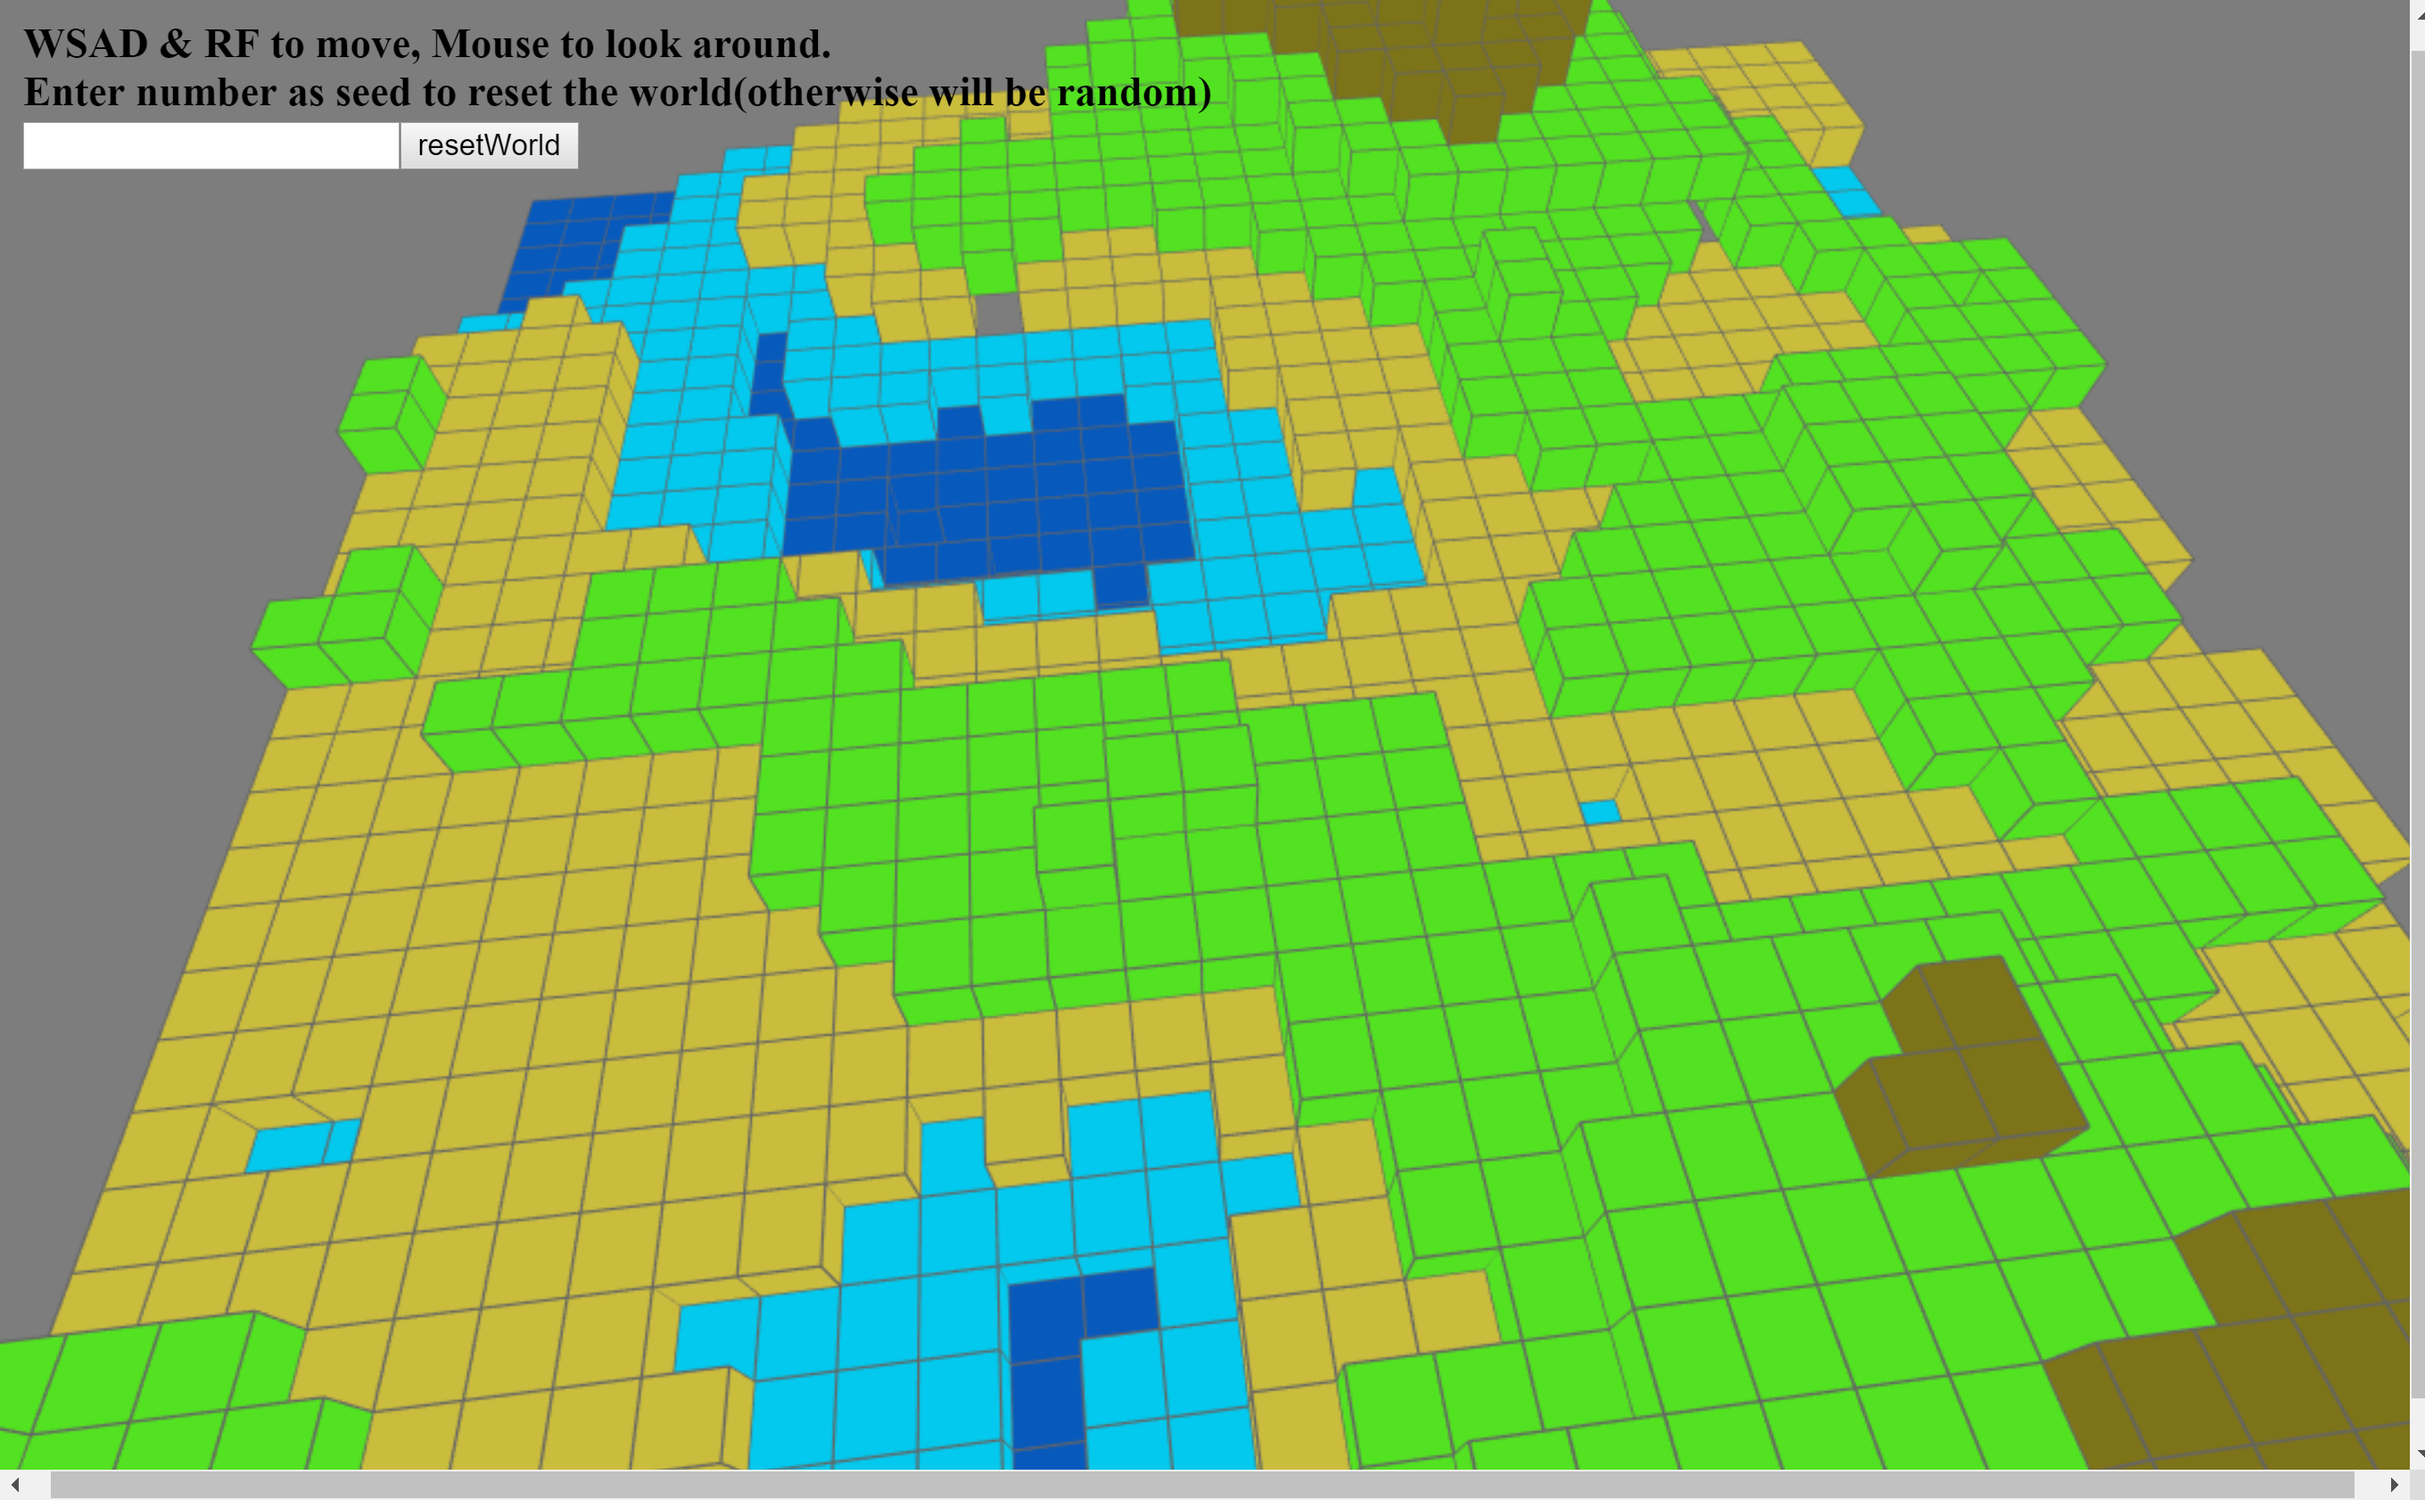
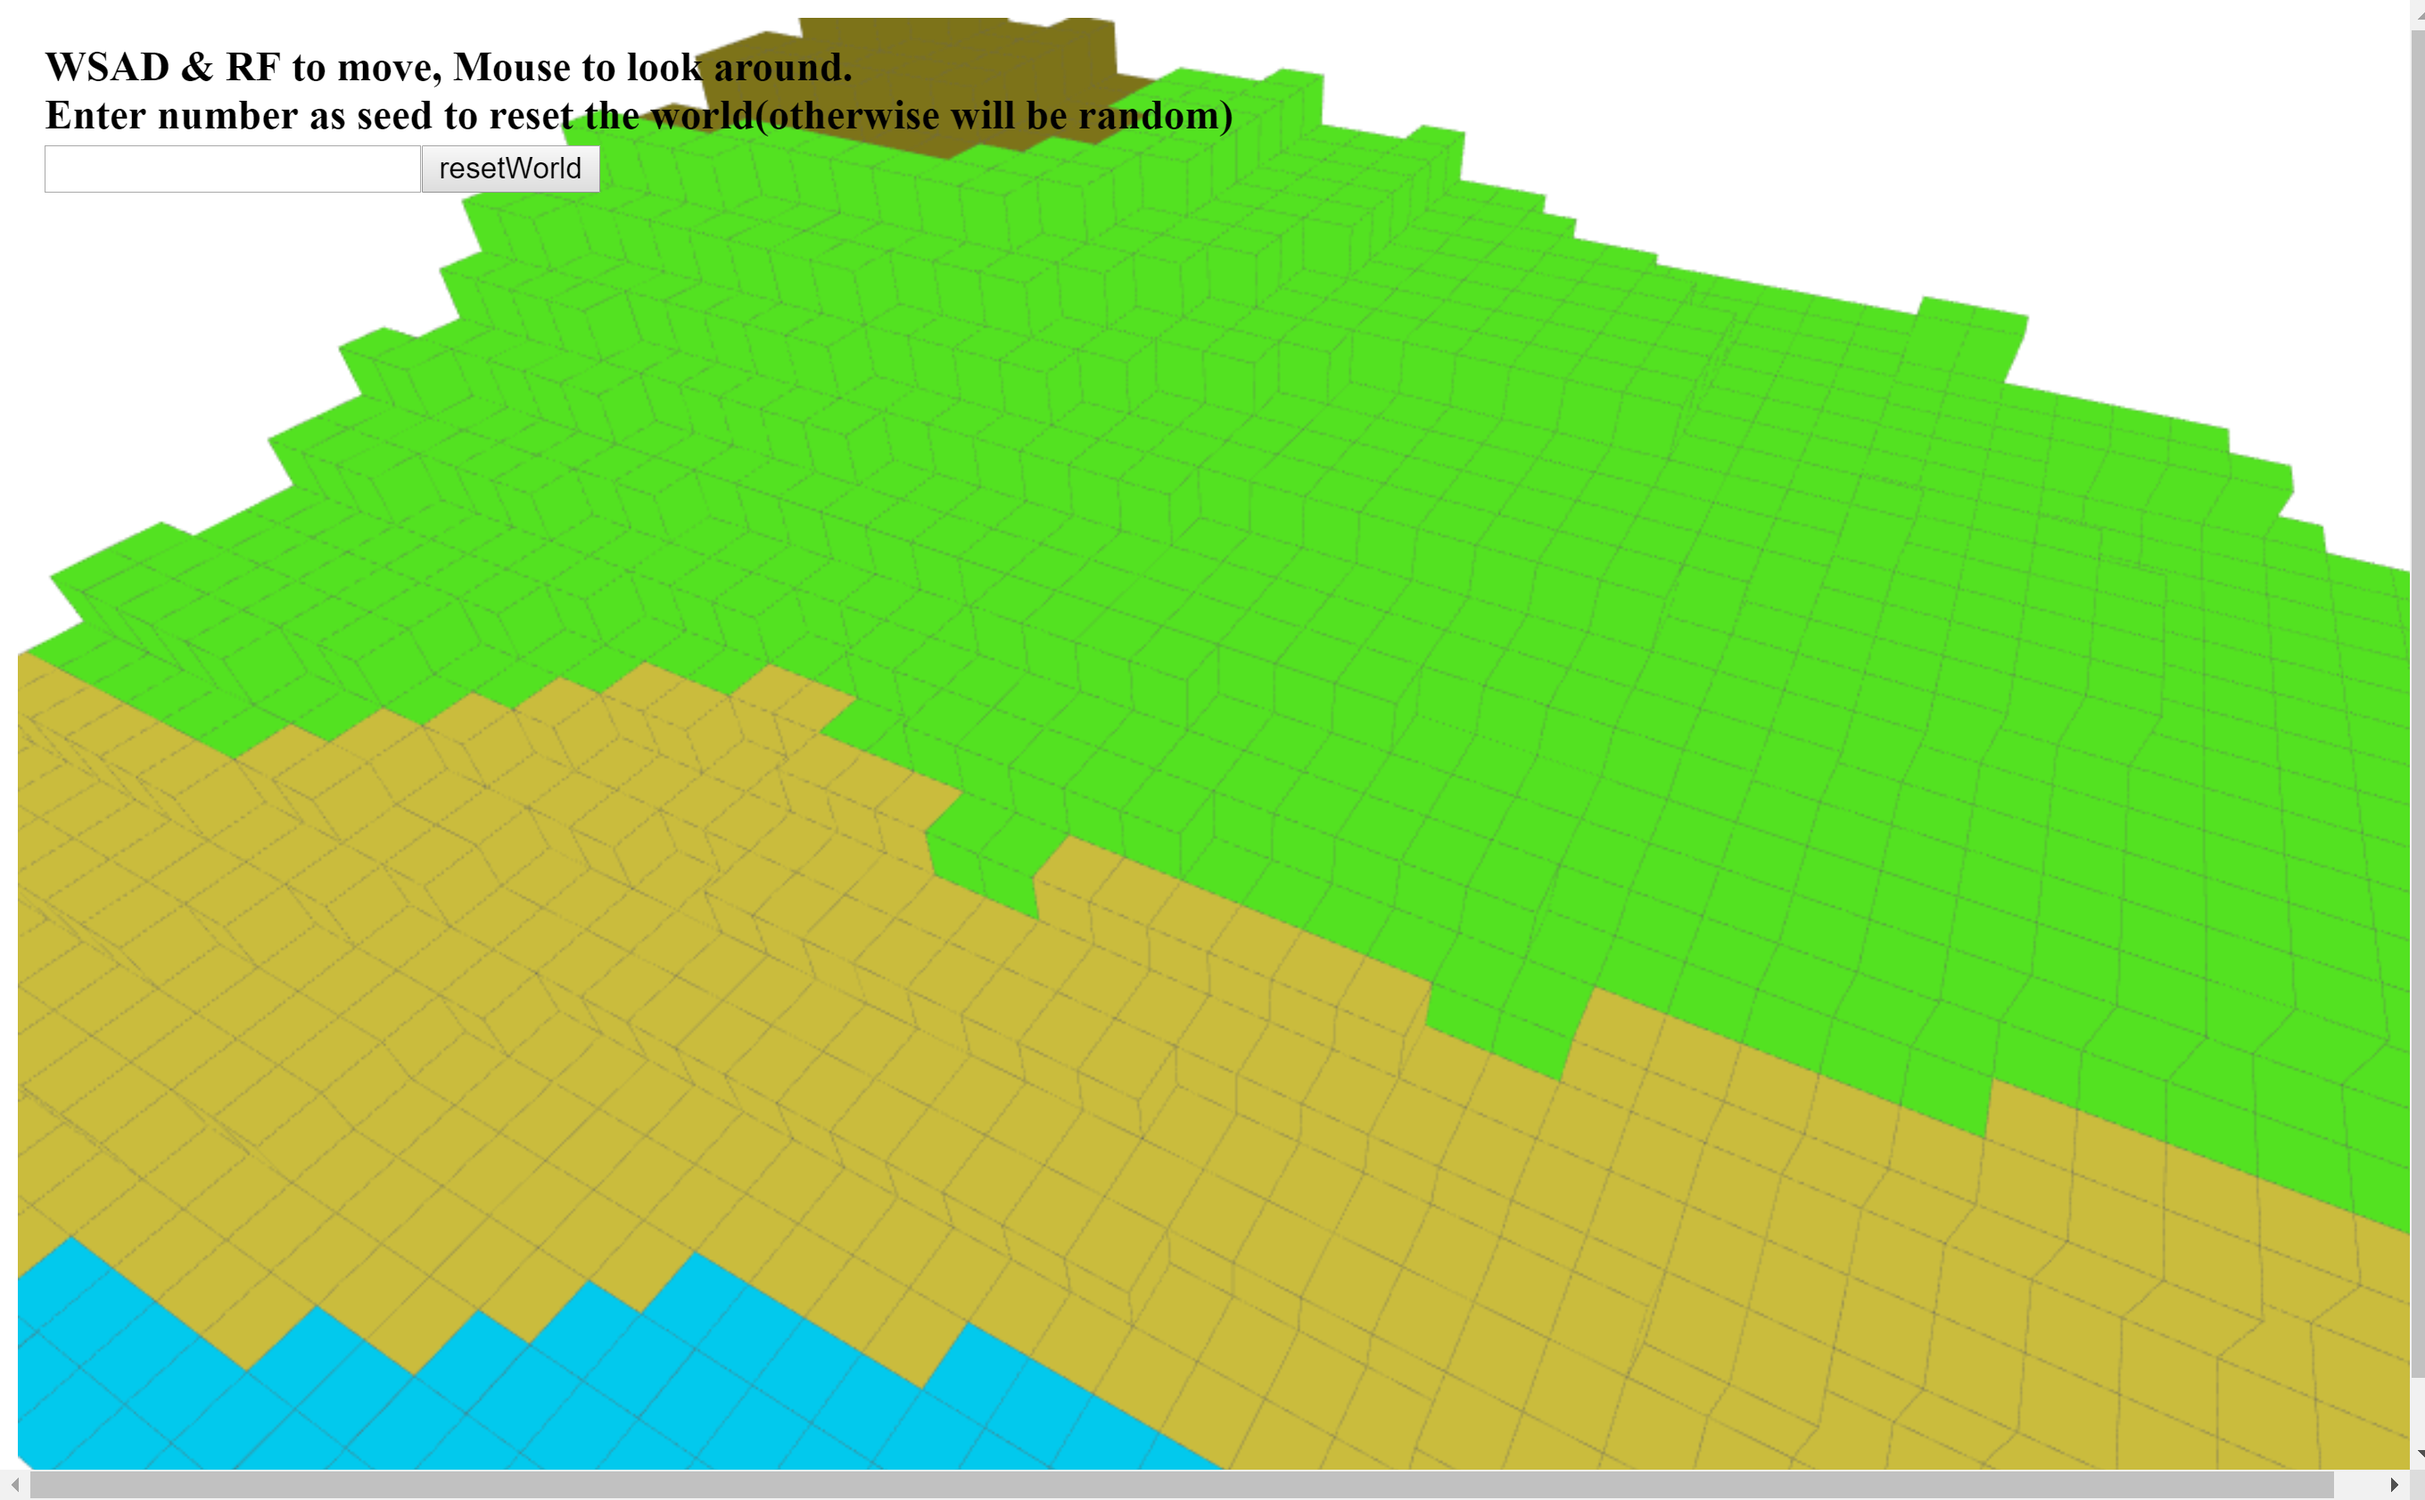
update

diff --git a/docs/asg2/js/world-generator.js b/docs/asg2/js/world-generator.js
@@ -11,43 +11,35 @@ class WorldGenerator {
             for (let j = 0; j < WORLD_DEPTH; j++) {
 
                 let altitude = noise(i * GRADE, j * GRADE) * 1;
-                // let altitude = Math.floor(altitude * 10) + 1;
                 let x = i * BLOCK_SIZE;
-                let y = Math.floor(map(altitude, 0, 1, 0, WORLD_HEIGHT)) * BLOCK_SIZE;
+                let y = Math.floor(map(altitude, 0, 1, 0, WORLD_HEIGHT - 1)) * BLOCK_SIZE + 1;
+                if (y < SEA_LEVEL * BLOCK_SIZE) {
+                    y = SEA_LEVEL * BLOCK_SIZE;
+                }
                 let z = j * BLOCK_SIZE;
-                // console.log(this.disOfCube(i, y, j));
                 let dis = this.disOfCube(-x, -y, z);
 
-                let vCube = createVector(x - cam.eyeX, y - cam.eyeY, z - cam.eyeZ);
+                let vCube = createVector(-x - cam.eyeX, -y - cam.eyeY, z - cam.eyeZ);
                 let vCam = createVector(cam.centerX - cam.eyeX, cam.centerY - cam.eyeY, cam.centerZ - cam.eyeZ);
 
-                // if (degrees(vCam.angleBetween(vCube)) < 25 && dis < VIEW_DIS) {
-                // console.log(degrees(vCam.angleBetween(vCube)));
-                if (dis < VIEW_DIS) {
+                if (degrees(vCam.angleBetween(vCube)) < 60 && dis < VIEW_DIS) {
                     // noStroke();
                     stroke(100, 100, 100);
                     noFill();
-
                     if (altitude >= 0 && altitude < 0.3) { // deep sea
                         texture(seaTexture);
-                    }
-                    else if (altitude >= 0.3 && altitude < 0.4) { // shalow water
+                    } else if (altitude > 0.3 && altitude <= 0.4) { // shalow water
                         texture(waterTexture);
-                    }
-                    else if (altitude >= 0.4 && altitude < 0.5) { // sand
+                    } else if (altitude > 0.4 && altitude <= 0.5) { // sand
                         texture(sandTexture);
-                    }
-                    else if (altitude >= 0.5 && altitude < 0.7) { // grass
+                    } else if (altitude > 0.5 && altitude <= 0.7) { // grass
                         texture(grassTexture);
-                    }
-                    else if (altitude >= 0.7 && altitude <= 1) { // mountain
+                    } else if (altitude > 0.7 && altitude <= 1) { // mountain
                         texture(dirtTexture);
                     }
-
                     translate(0, -y, 0);
                     box(BLOCK_SIZE, BLOCK_SIZE, BLOCK_SIZE);
                     translate(0, y, 0);
-                    // ambientLight();
                 }
                 translate(0, 0, BLOCK_SIZE);
             }
@@ -64,14 +56,4 @@ class WorldGenerator {
         // console.log(dy);
         // return Math.sqrt(dy * dy);
     }
-
-    // fieldOfView(va, vb) {
-    //     // Store some information about them for below
-    //     let dot = va.dot(vb);
-    //     let la = va.length();
-    //     let lb = vb.length();
-
-    //     // Now to find the angle
-    //     return (Math.acos(dot / (la * lb)) * (180 / Math.PI));
-    // }
 }

diff --git a/docs/asg2/js/sketch.js b/docs/asg2/js/sketch.js
@@ -11,16 +11,17 @@ let waterTexture;
 let sandTexture;
 let grassTexture;
 let dirtTexture;
-let MOVE_SPEED = 20;
+let MOVE_SPEED = 80;
 let WORLD_SEED = 101010;
 let input, button, instructions;
-let BLOCK_SIZE = 16;
-let WORLD_SIZE = 32;
+let BLOCK_SIZE = 128;
+// let WORLD_SIZE = 32;
 let WORLD_WIDTH = 128;
 let WORLD_HEIGHT = 32;
 let WORLD_DEPTH = 128;
-let GRADE = 0.025;
-let VIEW_DIS = 30 * BLOCK_SIZE;
+let GRADE = 0.02;
+let VIEW_DIS = 32 * BLOCK_SIZE;
+let SEA_LEVEL = 12;
 
 function preload() {
     stoneTexture = loadImage('assets/stone.png');
@@ -51,23 +52,31 @@ function setup() {
     textSize(50);
 
     cam = createCamera();
-    cam.setPosition(0, -WORLD_HEIGHT * BLOCK_SIZE, 0);
-    // cam.pan(1.8);
-    // cam.tilt(0.9);
+    cam.setPosition(-WORLD_WIDTH / 2 * BLOCK_SIZE, -WORLD_HEIGHT * BLOCK_SIZE, WORLD_DEPTH / 2 * BLOCK_SIZE);
+    cam.pan(1.8);
+    cam.tilt(0.9);
 
     world = new WorldGenerator();
 
+
     // let vCube = createVector(100 - cam.eyeX, 100 - cam.eyeY, 100 - cam.eyeZ);
     // let vCam = createVector(cam.centerX - cam.eyeX, cam.centerY - cam.eyeY, cam.centerZ - cam.eyeZ);
+    // let vCam = createVector(cam.centerX - cam.eyeX, cam.centerY - cam.eyeY, cam.centerZ - cam.eyeZ);
+    // console.log(cam.centerX, cam.centerY, cam.centerZ);
+    // console.log(vCam);
 
-    // console.log(vCube);
-    
 }
 
 function draw() {
-    background(125);
+    background(255);
     updateCameraLocation()
     world.draw();
+    // translate(100, 100, 100);
+    // let vCube = createVector(100 - cam.eyeX, 100 - cam.eyeY, 100 - cam.eyeZ);
+    // let vCam = createVector(cam.centerX - cam.eyeX, cam.centerY - cam.eyeY, cam.centerZ - cam.eyeZ);
+    // console.log(degrees(vCam.angleBetween(vCube)));
+    // if (degrees(vCam.angleBetween(vCube)) < 25)
+    //     box(BLOCK_SIZE, BLOCK_SIZE, BLOCK_SIZE);
 }
 
 function mouseDragged() {
@@ -91,10 +100,6 @@ function updateCameraLocation() {
     } else if (keyIsDown(70)) { // F to move down
         cam.move(0, MOVE_SPEED, 0);
     }
-    // let vCube = createVector(100 - cam.eyeX, 100 - cam.eyeY, 100 - cam.eyeZ);
-    // let vCam = createVector(cam.centerX - cam.eyeX, cam.centerY - cam.eyeY, cam.centerZ - cam.eyeZ);
-    // console.log(cam.centerX, cam.centerY, cam.centerZ);
-    // console.log(vCam);
 }
 
 
